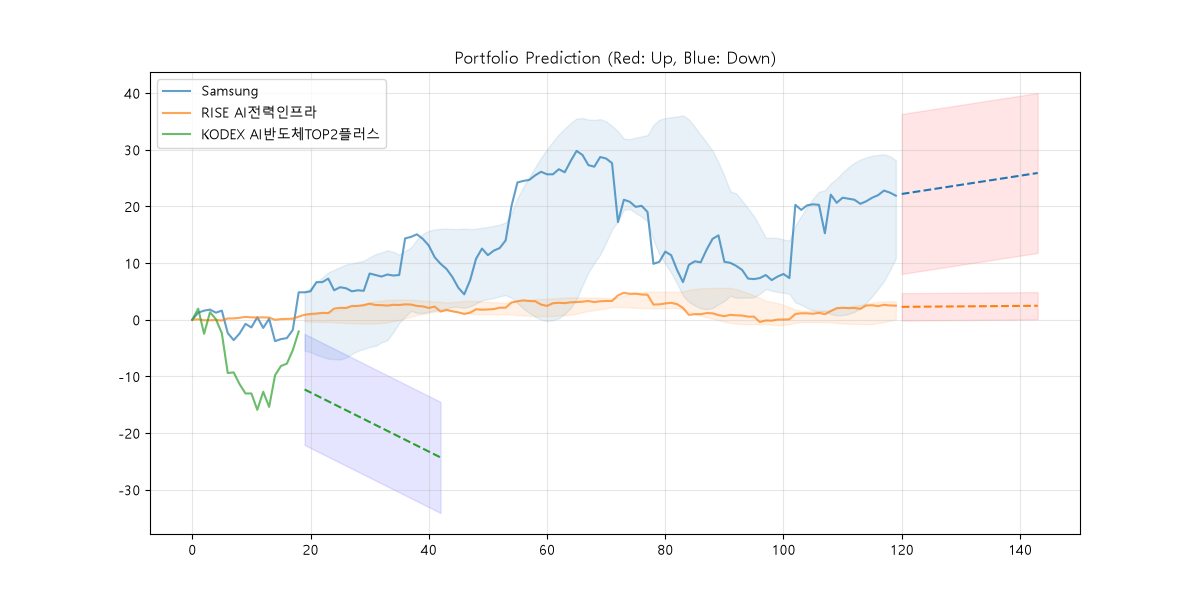
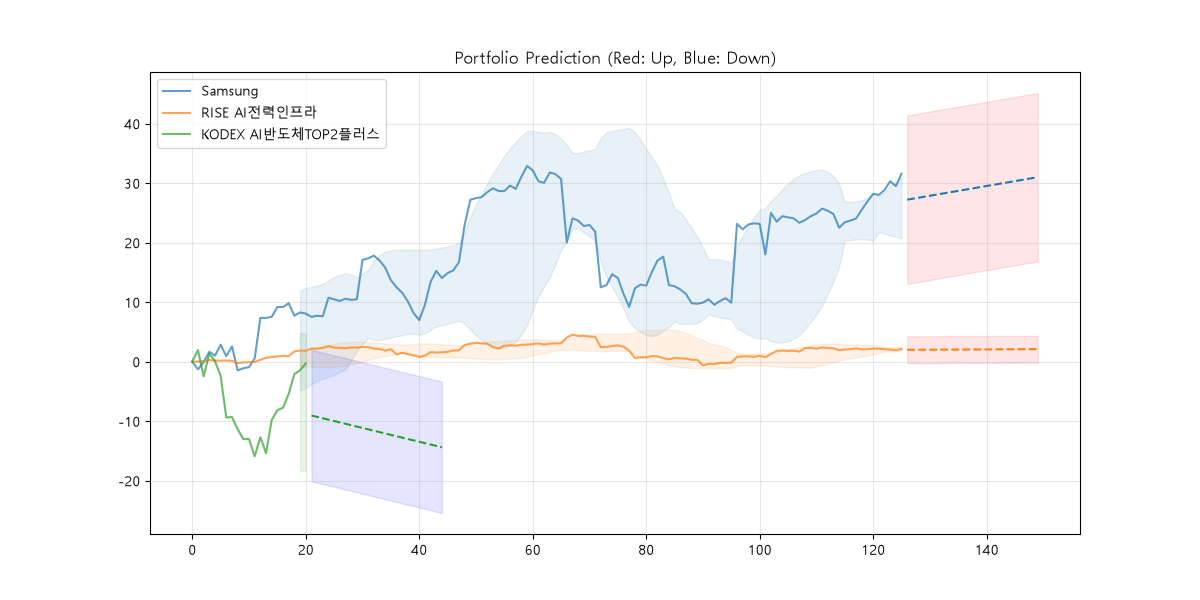
avanced

diff --git a/market_data.py b/market_data.py
@@ -3,6 +3,7 @@ import json
 import re
 import numpy as np
 import yfinance as yf
+import FinanceDataReader as fdr
 import pandas as pd
 import matplotlib.font_manager as fm
 import matplotlib.pyplot as plt
@@ -103,11 +104,24 @@ class MarketDataCollector:
             res = {}
             for name, item in target.items():
                 ticker = item["ticker"] if is_p else item
-                # 이동평균 및 RSI 계산의 정확도를 위해 1년치 데이터 수집
-                data = yf.Ticker(ticker).history(period="1y")
+                
+                # 국내 종목(.KS, .KQ)은 FinanceDataReader 사용, 그 외는 yfinance 사용
+                try:
+                    if ticker.endswith('.KS') or ticker.endswith('.KQ'):
+                        symbol = ticker.split('.')[0]
+                        # 1년 전부터 오늘까지 데이터 수집
+                        start_date = (pd.Timestamp.now() - pd.DateOffset(years=1)).strftime('%Y-%m-%d')
+                        data = fdr.DataReader(symbol, start=start_date)
+                    else:
+                        data = yf.Ticker(ticker).history(period="1y")
+                except Exception as e:
+                    print(f"❌ '{name}'({ticker}) 데이터 수집 중 오류: {e}")
+                    data = pd.DataFrame()
+
                 if not data.empty:
                     # 1차원 데이터 보장 및 인덱스 유지
-                    close = pd.Series(data['Close'].to_numpy().flatten(), index=data.index)
+                    close_col = 'Close' if 'Close' in data.columns else 'close' # fdr은 대소문자 섞일 수 있음
+                    close = pd.Series(data[close_col].to_numpy().flatten(), index=data.index)
                     rsi = self._calculate_rsi(close)
                     macd, sig = self._calculate_macd(close)
                     upper_bb, mid_bb, lower_bb = self._calculate_bollinger_bands(close)
@@ -142,10 +156,21 @@ class MarketDataCollector:
     def generate_portfolio_prediction_chart(self, output_path="chart.png"):
         plt.figure(figsize=(12, 6))
         for name, item in self.my_portfolio.items():
-            data = yf.download(item['ticker'], period="1mo", interval="1h", progress=False)
+            ticker = item['ticker']
+            try:
+                if ticker.endswith('.KS') or ticker.endswith('.KQ'):
+                    symbol = ticker.split('.')[0]
+                    start_date = (pd.Timestamp.now() - pd.DateOffset(months=1)).strftime('%Y-%m-%d')
+                    data = fdr.DataReader(symbol, start=start_date)
+                else:
+                    data = yf.download(ticker, period="1mo", interval="1h", progress=False)
+            except:
+                data = pd.DataFrame()
+
             if not data.empty:
                 # 1차원 데이터 보장 (차원 오류 방지)
-                close_vals = data['Close'].to_numpy().flatten()
+                close_col = 'Close' if 'Close' in data.columns else 'close'
+                close_vals = data[close_col].to_numpy().flatten()
                 norm = (close_vals / close_vals[0] - 1) * 100
                 x = np.arange(len(norm)); slope, intercept = np.polyfit(x, norm, 1)
                 

diff --git a/main.py b/main.py
@@ -62,23 +62,30 @@ def run_daily_report():
 
         if os.path.exists(screenshot_dir):
             # Screenshot_ 으로 시작하는 jpg, jpeg, png 파일 검색
-            image_files = []
+            image_files_set = set()
             for ext in ["jpg", "jpeg", "png", "JPG", "JPEG", "PNG"]:
-                image_files.extend(glob.glob(os.path.join(screenshot_dir, f"Screenshot_*.{ext}")))
+                image_files_set.update(glob.glob(os.path.join(screenshot_dir, f"Screenshot_*.{ext}")))
             
-            if image_files:
-                image_files.sort()  # 파일명(날짜/시간) 순으로 정렬하여 순차 업데이트
+            if image_files_set:
+                image_files = sorted(list(image_files_set))
                 for img_path in image_files:
                     print(f"📸 잔고 스크린샷 분석 중: {img_path}...")
                     extracted_data = analyzer.extract_portfolio_from_image(img_path)
-                    print(f"Raw extracted data from Vision: {extracted_data}") # Vision 모델 원본 출력
+                    
+                    if '"error":' in extracted_data:
+                        print(f"❌ 이미지 분석 스킵 (AI 오류): {extracted_data}")
+                        continue
+
                     clean_json = extracted_data.strip().replace("```json", "").replace("```", "").strip()
                     print(f"Clean JSON for parsing: {clean_json}") # 파싱 전 정리된 JSON
                     try:
                         portfolio_list = json.loads(clean_json)
-                        print(f"Parsed portfolio list: {portfolio_list}") # JSON 파싱 결과
-                        collector.update_portfolio_from_list(portfolio_list)
-                        print(f"🎯 포트폴리오 업데이트 완료: {os.path.basename(img_path)}")
+                        if isinstance(portfolio_list, list):
+                            print(f"Parsed portfolio list size: {len(portfolio_list)}")
+                            collector.update_portfolio_from_list(portfolio_list)
+                            print(f"🎯 포트폴리오 업데이트 완료: {os.path.basename(img_path)}")
+                        else:
+                            print(f"⚠️ 경고: 추출된 데이터가 리스트 형식이 아닙니다: {portfolio_list}")
                     except json.JSONDecodeError as e:
                         print(f"❌ 포트폴리오 JSON 파싱 실패 ({img_path}): {e}")
                         print(f"  실패한 JSON 내용: {clean_json}")
@@ -193,6 +200,9 @@ def run_daily_report():
         # 최종 결과 확인
         if response.status_code == 200:
             print("✅ 모든 리포트 및 차트 전송 완료!")
+        elif response.status_code == 404:
+            print("❌ 전송 실패: 404 - 텔레그램 토큰(TELEGRAM_TOKEN)이 올바르지 않거나 봇을 찾을 수 없습니다.")
+            print("💡 .env 파일의 토큰 값을 다시 확인해 주세요.")
         else:
             print(f"❌ 전송 실패: {response.status_code} - {response.text}")
 

diff --git a/ai_analysis.py b/ai_analysis.py
@@ -3,10 +3,21 @@ import PIL.Image
 import time
 import re
 import json
+from tenacity import retry, stop_after_attempt, wait_exponential, retry_if_exception_type
 
 class MarketAnalyzer:
     def __init__(self, api_key):
         self.client = genai.Client(api_key=api_key)
+
+    @retry(
+        stop=stop_after_attempt(3),
+        wait=wait_exponential(multiplier=1, min=2, max=10),
+        retry=retry_if_exception_type(Exception),
+        reraise=True
+    )
+    def _safe_generate_content(self, model, contents):
+        """지수 백오프를 적용한 안전한 AI 호출"""
+        return self.client.models.generate_content(model=model, contents=contents)
 
     def generate_analysis(self, market_data, report_type="opening", trade_info=None):
         indices_summary = "".join([f"- {n}: {i['price']} ({i['change_pct']}% / BB신호: {i.get('bb_signal')})\n" for n, i in market_data.get('indices', {}).items()])
@@ -68,7 +79,7 @@ class MarketAnalyzer:
 
         for model_name in models_to_try:
             try:
-                analysis_result = self.client.models.generate_content(model=model_name, contents=prompt).text
+                analysis_result = self._safe_generate_content(model=model_name, contents=prompt).text
                 break
             except Exception as e:
                 if "API_KEY_INVALID" in str(e) or "400" in str(e):
@@ -110,7 +121,7 @@ class MarketAnalyzer:
             
             try:
                 summarization_model = 'gemini-2.0-flash' # 최신 모델 권장
-                new_summary_response = self.client.models.generate_content(model=summarization_model, contents=summarize_prompt).text
+                new_summary_response = self._safe_generate_content(model=summarization_model, contents=summarize_prompt).text
                 current_summary = new_summary_response.strip()
                 
                 if details:
@@ -135,9 +146,9 @@ class MarketAnalyzer:
             2. ticker: 6자리숫자.KS(코스피) 또는 .KQ(코스닥)
             3. avg_price: 매입단가 (숫자만)
             4. deposit: 매입금액 (숫자만)
-            결과는 반드시 [{"name": "...", "ticker": "...", "avg_price": 0, "deposit": 0}] 형식의 JSON 배열만 보내세요.
+            결과는 반드시 다른 설명 없이 [{"name": "...", "ticker": "...", "avg_price": 0, "deposit": 0}] 형식의 JSON 배열만 보내세요.
             """
-            response = self.client.models.generate_content(model='gemini-3.5-flash', contents=[prompt, img])
+            response = self._safe_generate_content(model='gemini-3.5-flash', contents=[prompt, img])
             return self._validate_and_clean_json(response.text)
         except Exception as e:
             return json.dumps({"error": f"이미지 분석 실패: {str(e)}"})